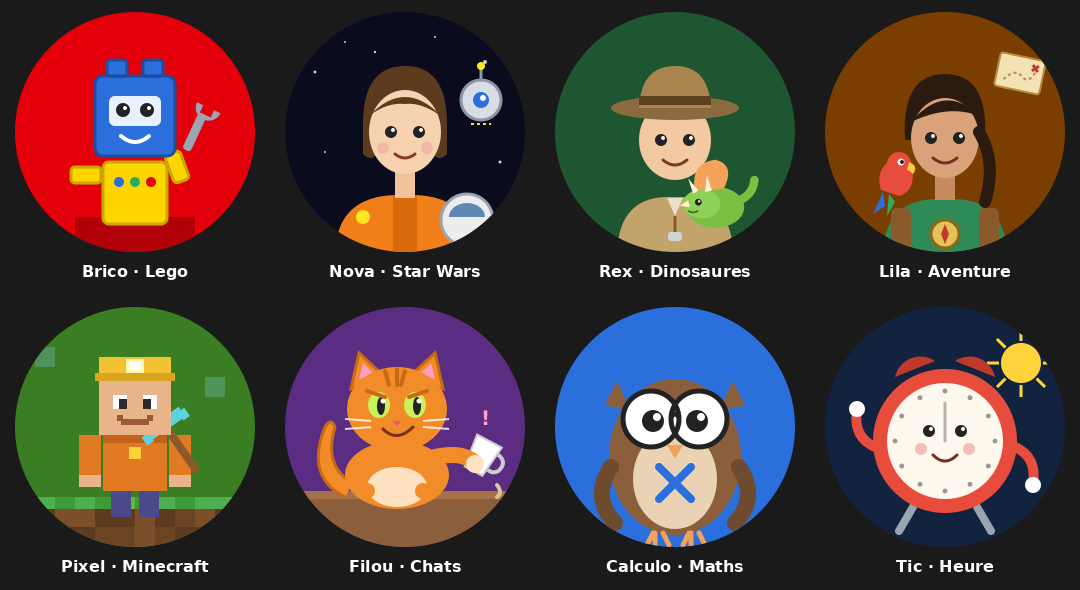
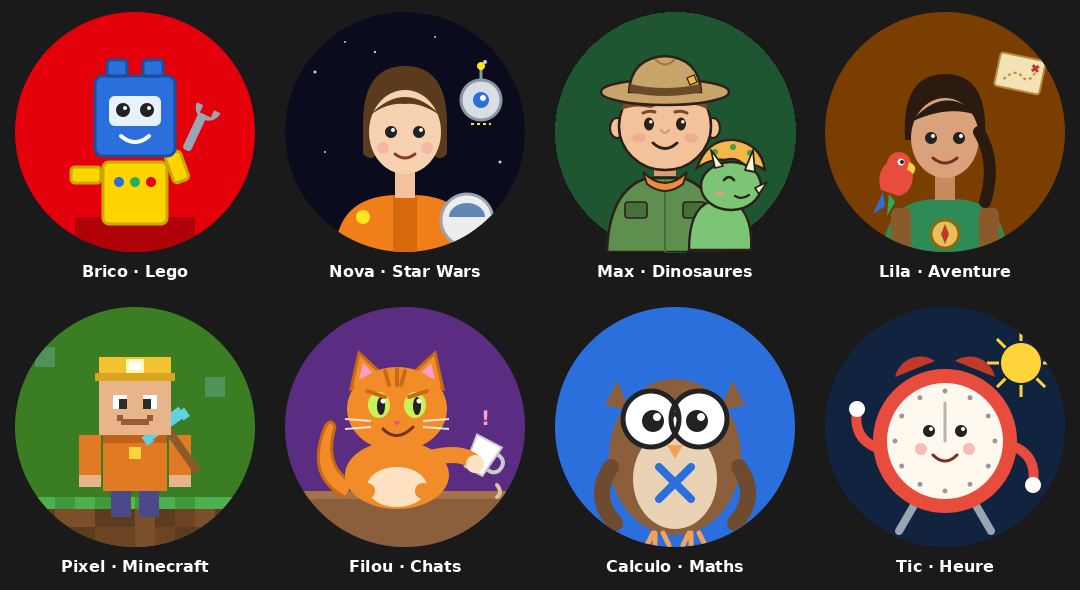
Page Dinosaures : Max le dresseur remplace Rex
Claude-Session: https://claude.ai/code/session_016B1GXz9sx7uVq8qtyhc6Rc

Changed region(s): [[0.55, 0.0915, 0.7333, 0.4881]]

diff --git a/sources/Pages/generer.py b/sources/Pages/generer.py
@@ -33,28 +33,6 @@ P['nova']=wrap('#0B0B1E','''
 <g><circle cx="196" cy="88" r="20" fill="#D9DEE5" stroke="#8A96A3" stroke-width="3"/><circle cx="196" cy="88" r="8" fill="#2A6FDB"/><circle cx="198" cy="86" r="3" fill="#fff"/><line x1="196" y1="68" x2="196" y2="56" stroke="#8A96A3" stroke-width="3"/><circle cx="196" cy="54" r="4" fill="#FFE81F"/>
 <path d="M186 112 l20 0" stroke="#FFE81F" stroke-width="2" stroke-dasharray="3 3"/></g>
 ''',stars)
-# 3 Rex le dresseur
-P['rex']=wrap('#1E5631','''
-<ellipse cx="120" cy="250" rx="90" ry="20" fill="#174426"/>
-<path d="M62 245 q0-58 48-60 l20 0 q48 2 48 60 z" fill="#C2A36B"/>
-<path d="M112 186 l8 18 l8 -18" fill="#E9DFC8"/>
-<path d="M120 204 l0 18" stroke="#8B5A2B" stroke-width="3"/><rect x="113" y="220" width="14" height="9" rx="3" fill="#D0D4D9"/>
-<ellipse cx="120" cy="128" rx="36" ry="40" fill="#F2C9A0"/>
-'''+eyes(106,134,128)+'''
-<path d="M108 148 q12 10 24 0" stroke="#7A3B22" stroke-width="3" fill="none" stroke-linecap="round"/>
-<ellipse cx="120" cy="96" rx="64" ry="12" fill="#8B6A3E"/>
-<path d="M84 96 q2 -42 36 -42 q34 0 36 42 z" fill="#A9844F"/>
-<rect x="84" y="84" width="72" height="9" fill="#5C3F1E"/>
-<g transform="translate(128 146) scale(0.85)">
-<ellipse cx="38" cy="58" rx="34" ry="24" fill="#7BC043"/>
-<path d="M60 52 q22 -6 24 -26" stroke="#7BC043" stroke-width="10" fill="none" stroke-linecap="round"/>
-<path d="M14 40 q-6 -34 24 -38 q24 6 10 34 z" fill="#F4A259"/>
-<ellipse cx="22" cy="54" rx="22" ry="17" fill="#8ED158"/>
-<path d="M12 42 l-6 -18 l12 14 z" fill="#FFF3D6"/><path d="M26 40 l2 -20 l6 18 z" fill="#FFF3D6"/><path d="M8 58 l-12 -2 l10 -6 z" fill="#FFF3D6"/>
-<circle cx="18" cy="52" r="4" fill="#222"/><circle cx="19" cy="51" r="1.4" fill="#fff"/>
-<path d="M6 62 q6 4 12 0" stroke="#3B6B1F" stroke-width="2" fill="none"/>
-</g>
-''')
 # 4 Lila l'exploratrice
 P['lila']=wrap('#7A3E00','''
 <path d="M58 245 q0-56 52-58 l20 0 q52 2 52 58 z" fill="#2E8B57"/>

diff --git a/README.md b/README.md
@@ -17,7 +17,7 @@ Illustrations des pages de la sphère tactile (une par page), personnages origin
 |---|---|---|
 | `brico.png` | Brico, robot en briques | Histoire Lego |
 | `nova.png` | Capitaine Nova et son droïde | Histoire Star Wars |
-| `rex.png` | Rex le dresseur et son bébé tricératops | Histoire Dinosaures |
+| `../../MaxDresseur/240x240/idle.png` | Max le dresseur et Pico (personnage existant) | Histoire Dinosaures |
 | `lila.png` | Lila l'exploratrice et son perroquet | Histoire Aventure |
 | `pixel.png` | Pixel, mineur en blocs | Histoire Minecraft |
 | `filou.png` | Filou, chat roux farceur | Histoire Chats farceurs |
